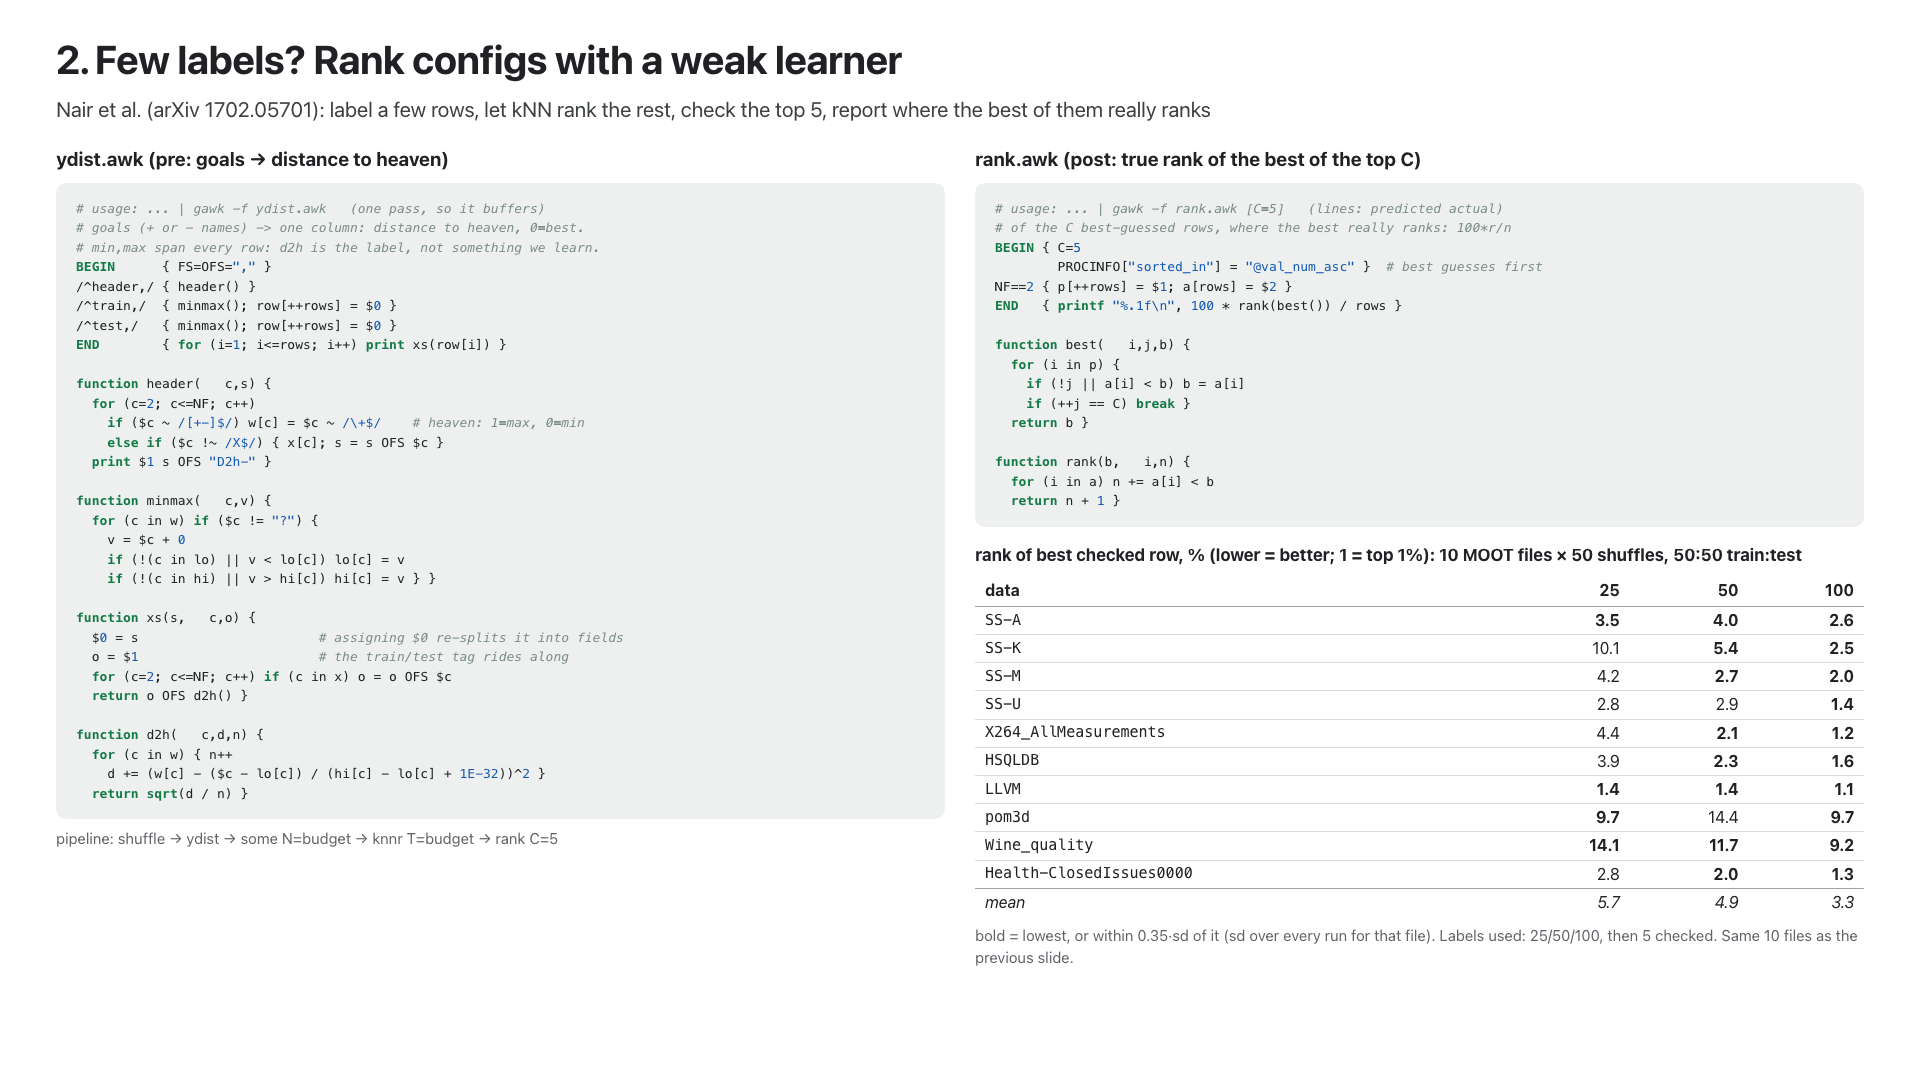
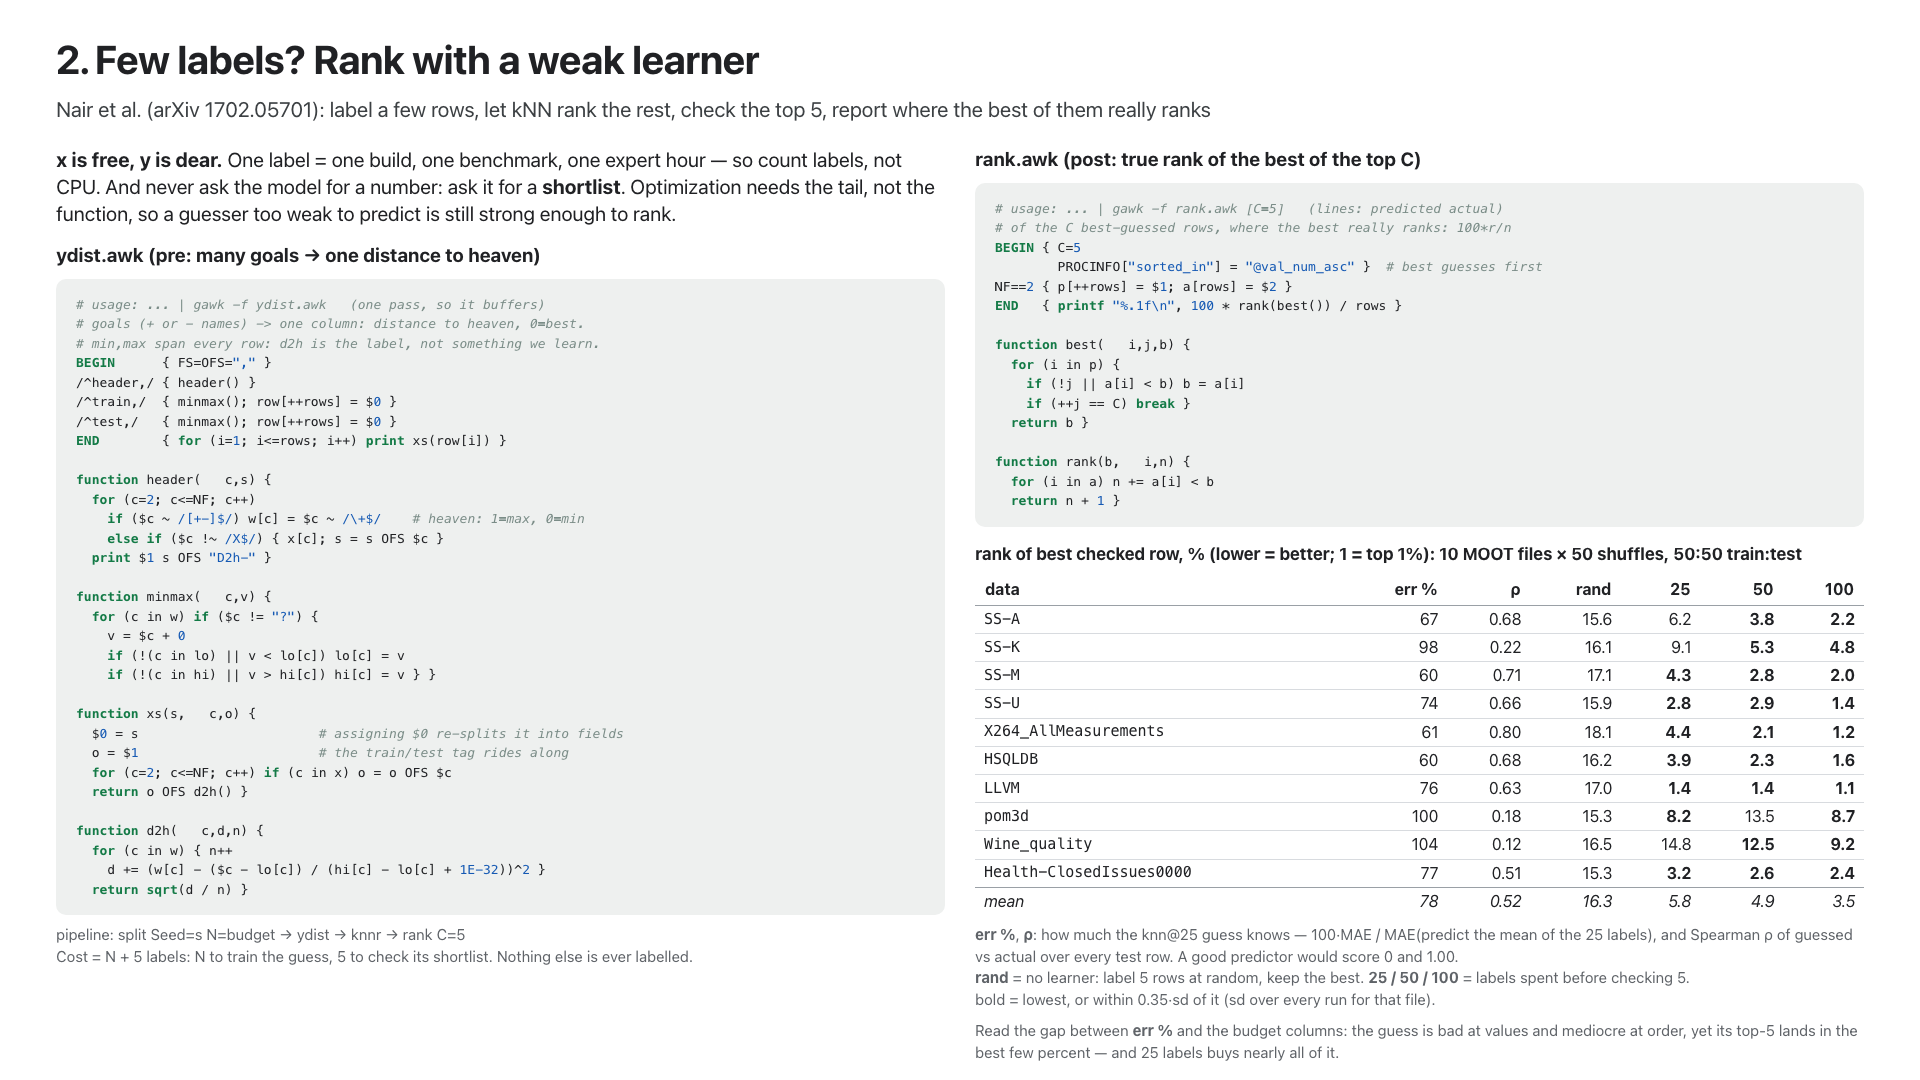
as

diff --git a/slides/fig/rank-rows.html b/slides/fig/rank-rows.html
@@ -1,11 +1,11 @@
-<tr><td>SS-A</td><td class="b">3.5</td><td class="b">4.0</td><td class="b">2.6</td></tr>
-<tr><td>SS-K</td><td>10.1</td><td class="b">5.4</td><td class="b">2.5</td></tr>
-<tr><td>SS-M</td><td>4.2</td><td class="b">2.7</td><td class="b">2.0</td></tr>
-<tr><td>SS-U</td><td>2.8</td><td>2.9</td><td class="b">1.4</td></tr>
-<tr><td>X264_AllMeasurements</td><td>4.4</td><td class="b">2.1</td><td class="b">1.2</td></tr>
-<tr><td>HSQLDB</td><td>3.9</td><td class="b">2.3</td><td class="b">1.6</td></tr>
-<tr><td>LLVM</td><td class="b">1.4</td><td class="b">1.4</td><td class="b">1.1</td></tr>
-<tr><td>pom3d</td><td class="b">9.7</td><td>14.4</td><td class="b">9.7</td></tr>
-<tr><td>Wine_quality</td><td class="b">14.1</td><td class="b">11.7</td><td class="b">9.2</td></tr>
-<tr><td>Health-ClosedIssues0000</td><td>2.8</td><td class="b">2.0</td><td class="b">1.3</td></tr>
-<tr class="mean"><td>mean</td><td>5.7</td><td>4.9</td><td>3.3</td></tr>
+<tr><td>SS-A</td><td>67</td><td>0.68</td><td>15.6</td><td>6.2</td><td class="b">3.8</td><td class="b">2.2</td></tr>
+<tr><td>SS-K</td><td>98</td><td>0.22</td><td>16.1</td><td>9.1</td><td class="b">5.3</td><td class="b">4.8</td></tr>
+<tr><td>SS-M</td><td>60</td><td>0.71</td><td>17.1</td><td class="b">4.3</td><td class="b">2.8</td><td class="b">2.0</td></tr>
+<tr><td>SS-U</td><td>74</td><td>0.66</td><td>15.9</td><td class="b">2.8</td><td class="b">2.9</td><td class="b">1.4</td></tr>
+<tr><td>X264_AllMeasurements</td><td>61</td><td>0.80</td><td>18.1</td><td class="b">4.4</td><td class="b">2.1</td><td class="b">1.2</td></tr>
+<tr><td>HSQLDB</td><td>60</td><td>0.68</td><td>16.2</td><td class="b">3.9</td><td class="b">2.3</td><td class="b">1.6</td></tr>
+<tr><td>LLVM</td><td>76</td><td>0.63</td><td>17.0</td><td class="b">1.4</td><td class="b">1.4</td><td class="b">1.1</td></tr>
+<tr><td>pom3d</td><td>100</td><td>0.18</td><td>15.3</td><td class="b">8.2</td><td>13.5</td><td class="b">8.7</td></tr>
+<tr><td>Wine_quality</td><td>104</td><td>0.12</td><td>16.5</td><td>14.8</td><td class="b">12.5</td><td class="b">9.2</td></tr>
+<tr><td>Health-ClosedIssues0000</td><td>77</td><td>0.51</td><td>15.3</td><td class="b">3.2</td><td class="b">2.6</td><td class="b">2.4</td></tr>
+<tr class="mean"><td>mean</td><td>78</td><td>0.52</td><td>16.3</td><td>5.8</td><td>4.9</td><td>3.5</td></tr>

diff --git a/slides/fig/loc-rows.html b/slides/fig/loc-rows.html
@@ -1,13 +1,13 @@
-<tr><td>abcd</td><td>10</td><td>26</td><td>24</td><td>30</td><td>43</td><td>16</td></tr>
-<tr><td>nb</td><td>13</td><td>33</td><td>30</td><td>36</td><td>63</td><td>15</td></tr>
-<tr><td>shuffle</td><td>4</td><td>11</td><td>21</td><td>16</td><td>27</td><td>4</td></tr>
-<tr><td>disc</td><td>16</td><td>22</td><td>28</td><td>33</td><td>37</td><td>10</td></tr>
+<tr><td>abcd</td><td>13</td><td>26</td><td>24</td><td>30</td><td>43</td><td>16</td></tr>
+<tr><td>nb</td><td>15</td><td>33</td><td>30</td><td>36</td><td>63</td><td>15</td></tr>
+<tr><td>shuffle</td><td>&mdash;</td><td>11</td><td>21</td><td>16</td><td>27</td><td>4</td></tr>
+<tr><td>disc</td><td>25</td><td>22</td><td>28</td><td>33</td><td>37</td><td>10</td></tr>
 <tr><td>some</td><td>1</td><td>6</td><td>4</td><td>6</td><td>12</td><td>5</td></tr>
-<tr><td>knnr</td><td>21</td><td>34</td><td>29</td><td>52</td><td>85</td><td>16</td></tr>
-<tr><td>ydist</td><td>19</td><td>31</td><td>30</td><td>35</td><td>68</td><td>11</td></tr>
-<tr><td>rank</td><td>13</td><td>15</td><td>12</td><td>19</td><td>24</td><td>6</td></tr>
+<tr><td>knnr</td><td>23</td><td>34</td><td>29</td><td>52</td><td>85</td><td>16</td></tr>
+<tr><td>ydist</td><td>24</td><td>31</td><td>30</td><td>35</td><td>68</td><td>11</td></tr>
+<tr><td>rank</td><td>12</td><td>15</td><td>12</td><td>19</td><td>24</td><td>6</td></tr>
 <tr><td>tfidf</td><td>20</td><td>35</td><td>33</td><td>36</td><td>56</td><td>13</td></tr>
 <tr><td>twcnb</td><td>22</td><td>45</td><td>49</td><td>51</td><td>81</td><td>11</td></tr>
 <tr class="lib"><td>shared lib</td><td>&mdash;</td><td>41</td><td>51</td><td>40</td><td>133</td><td>18</td></tr>
-<tr class="tot"><td>total</td><td>139</td><td>299</td><td>311</td><td>354</td><td>629</td><td>125</td></tr>
-<tr class="rel"><td>&times; gawk</td><td>1.0</td><td>2.2</td><td>2.2</td><td>2.5</td><td>4.5</td><td>0.9</td></tr>
+<tr class="tot"><td>total</td><td>155</td><td>299</td><td>311</td><td>354</td><td>629</td><td>125</td></tr>
+<tr class="rel"><td>&times; gawk</td><td>1.0</td><td>1.9</td><td>2.0</td><td>2.3</td><td>4.1</td><td>0.8</td></tr>

diff --git a/slides/fig/few-row.html b/slides/fig/few-row.html
@@ -1,1 +1,1 @@
-<td>Few labels<small>rank of best of 5, % (lower = better)</small></td><td style="text-align:left" class="cmp">random / knn@25 / knn@100</td><td class="trip">16.3 / 5.7 / <b>3.3</b></td><td class="trip">0 / 9 / <b>10</b></td><td class="trip"><b>30</b> / 78 / 181</td>
+<td>Few labels<small>rank of best of 5, % (lower = better)</small></td><td style="text-align:left" class="cmp">random / knn@25 / knn@100</td><td class="trip">16.3 / 5.8 / <b>3.5</b></td><td class="trip">0 / 8 / <b>10</b></td><td class="trip"><b>27</b> / 81 / 253</td>

diff --git a/slides/slide3.html b/slides/slide3.html
@@ -33,7 +33,7 @@
     <div>
       <h2>ydist.awk (pre: many goals &rarr; one distance to heaven)</h2>
       <pre class="awk" data-src="bundle/gawk/ydist.awk"></pre>
-      <p class="note">pipeline: shuffle &rarr; ydist &rarr; some N=budget &rarr; knnr T=budget &rarr; rank C=5<br>
+      <p class="note">pipeline: split Seed=s N=budget &rarr; ydist &rarr; knnr &rarr; rank C=5<br>
         Cost = N + 5 labels: N to train the guess, 5 to check its shortlist. Nothing else is ever labelled.</p>
     </div>
   </section>

diff --git a/slides/weak.py b/slides/weak.py
@@ -126,7 +126,8 @@ def main():
     for k, v in three.items(): five[k] += [v]; best[k] += v <= cut5
 
   d = [st.mean(c) for c in down]
-  print(f"{'mean':26} {d[0]:7.1f} {d[1]:7.2f}" + "".join(f"{v:8.1f}" for v in d[2:]))
+  print(f"{'mean':26} {d[0]:7.1f} {d[1]:7.2f}"          # rand prints last,
+        + "".join(f"{v:8.1f}" for v in d[3:] + [d[2]]))  # as in the rows above
   rank += [f'<tr class="mean"><td>mean</td><td>{d[0]:.0f}</td>'
            f'<td>{d[1]:.2f}</td>'
            + "".join(f'<td>{v:.1f}</td>' for v in d[2:]) + '</tr>']

diff --git a/README.md b/README.md
@@ -148,6 +148,28 @@ the generated code was short and easy to browse. The prompting was
 straightforward. The result runs. Small is not a handicap; small is how it
 got done at all.
 
+It also measures up. Every tool here was checked against the library a
+working analyst would otherwise reach for — same files, same splits, same
+scoring. On ten MOOT classification files (twenty shuffles, 50:50
+train:test), naive Bayes over discretized numbers averages 79.6% accuracy
+against LightGBM's 84.3%; the gawk tool is best or tied on five files of ten,
+LightGBM on nine; and the whole gawk experiment finishes in 26 seconds
+against 439. On text with rare classes (four files, roughly 1% "yes"), tf-idf
+feeding complement naive Bayes averages 81.7% macro recall against a
+class-balanced LinearSVC's 65.0, and wins on all four files — though here the
+SVM is the quicker experiment, 154 seconds against 285. On optimization under
+a label budget (ten files, fifty shuffles), labelling 25 rows and checking
+the five best-ranked returns a row in the best 5.8% of the space, where
+checking five rows at random returns 16.3%.
+
+Read those numbers honestly. LightGBM is the better classifier, and it is
+running at its defaults — defaults built for data far larger than these
+files. Ask it to fit 46 training rows and `min_child_samples=20` has it
+building a hundred two-leaf stumps, because no deeper split is legal. Tune it
+for small data and it pulls further ahead. So the claim is not that gawk
+wins. The claim is the exchange rate: a few points of accuracy, against two
+orders of magnitude less code to install, read, and trust.
+
 ### 2. The straw man (good science)
 
 The methodological precedent here is much older than this work. In his 1995
@@ -238,6 +260,14 @@ channel for a supply-chain attack; see the 2024 xz-utils backdoor
 completely, in an afternoon. A transitive dependency tree of millions of
 lines cannot. For safety-critical or reproducible work, the auditable
 artifact is the trustworthy one.
+
+Measure the tree you are trusting. On the machine that ran these
+experiments, the installed numpy, scipy, scikit-learn and LightGBM ship
+995,456 non-blank lines of Python, Cython and C between them — and that count
+omits LightGBM's own engine, which arrives as a 4.7 MB compiled library whose
+source (39,468 lines, plus 126,599 more vendored from other projects) is not
+in the wheel at all. The eleven scripts in `bundle/gawk` come to 223 lines,
+170 of them code, and depend on nothing but gawk.
 
 ### 8. The Richard Hipp argument (usability)
 
